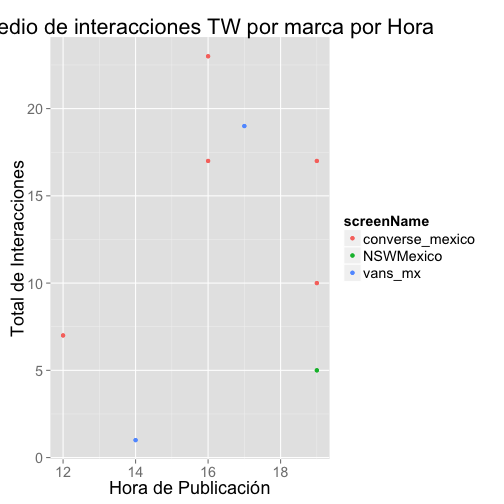
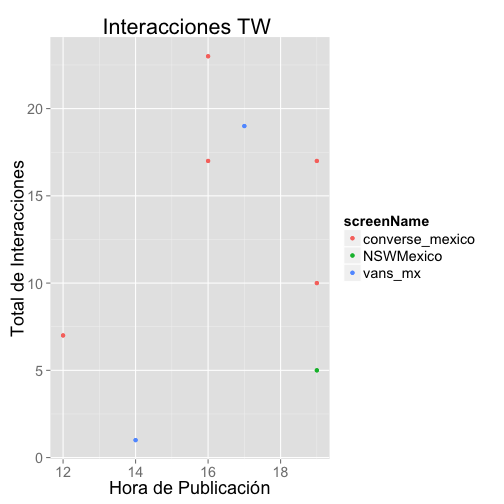
publishing deck

Changed region(s): [[0.0, 0.0298, 0.8631, 0.0893]]

diff --git a/index.html b/index.html
@@ -37,7 +37,8 @@
   <section class="slide " id="slide-1">
   <div>
     <h2>Twitter Data Products</h2>
-    
+    <p>By Claudia V</p>
+
   </div>
 </section>
 <section class="slide " id="slide-2">
@@ -64,21 +65,21 @@ Tweets are separated to get the ones made exclusively by each brand and the numb
 <section class="slide " id="slide-4">
   <div>
     <h2>Sample Plots</h2>
-    <p><img src="assets/fig/chunk_name-1.png" alt="plot of chunk chunk_name"> </p>
-
-<h2><img src="assets/fig/plot-1.png" alt="plot of chunk plot"> </h2>
-
-<h2>About</h2>
-
-<p>This project was created for the Coursera Data Science Specialization</p>
-
-<p>References
-Shiny R Studio Tutorials
-TwitterR package</p>
+    <p><img src="assets/fig/chunk_name-1.png" alt="plot of chunk chunk_name"> <img src="assets/fig/chunk_name-2.png" alt="plot of chunk chunk_name"> </p>
 
   </div>
 </section>
 <section class="slide " id="slide-5">
+  <div>
+    <h2>About</h2>
+    <p>This project was created for the Coursera Data Science Specialization
+Shiny R Studio Tutorials
+TwitterR package
+<a href="http://blog.dataweave.in/post/96618078833/building-a-twitter-sentiment-analysis-app-using-r">http://blog.dataweave.in/post/96618078833/building-a-twitter-sentiment-analysis-app-using-r</a></p>
+
+  </div>
+</section>
+<section class="slide " id="slide-6">
   <div>
     <h2></h2>
     

diff --git a/index.md b/index.md
@@ -12,6 +12,8 @@ knit        : slidify::knit2slides
 ---
 
 ## Twitter Data Products 
+By Claudia V
+
 
 --- 
 
@@ -33,14 +35,13 @@ Tweets are separated to get the ones made exclusively by each brand and the numb
 
 --- 
 ## Sample Plots 
-![plot of chunk chunk_name](assets/fig/chunk_name-1.png) 
-![plot of chunk plot](assets/fig/plot-1.png) 
---- 
+![plot of chunk chunk_name](assets/fig/chunk_name-1.png) ![plot of chunk chunk_name](assets/fig/chunk_name-2.png) 
+
+---
 ## About
 This project was created for the Coursera Data Science Specialization
-
-References
 Shiny R Studio Tutorials
 TwitterR package
+http://blog.dataweave.in/post/96618078833/building-a-twitter-sentiment-analysis-app-using-r
 
 --- 
